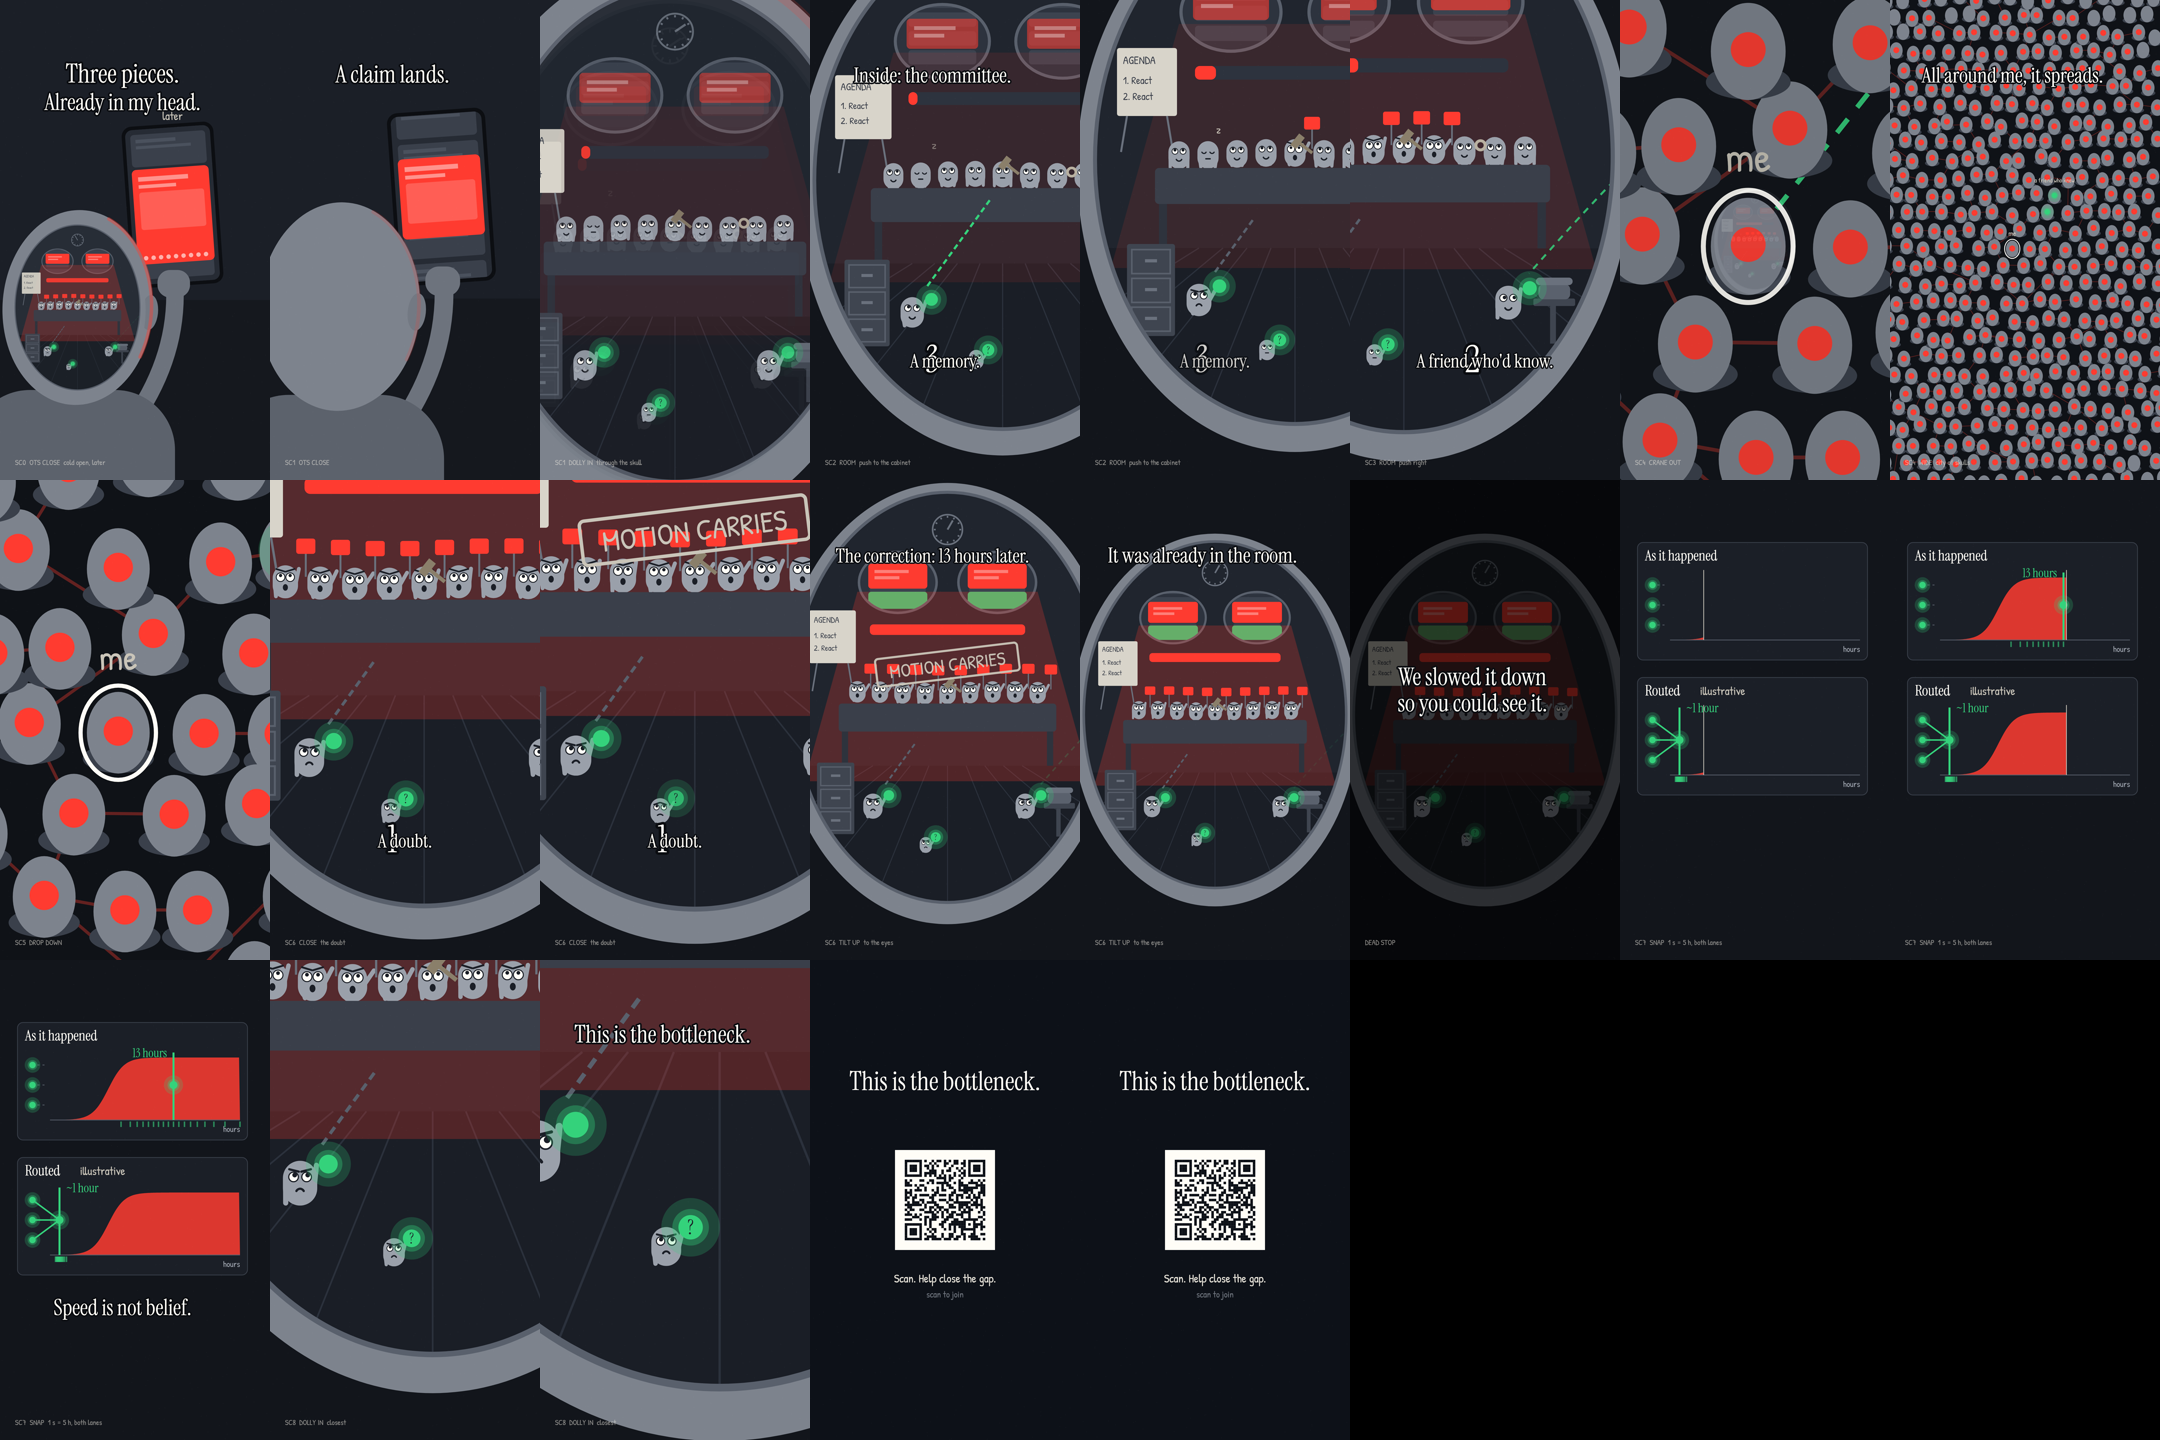
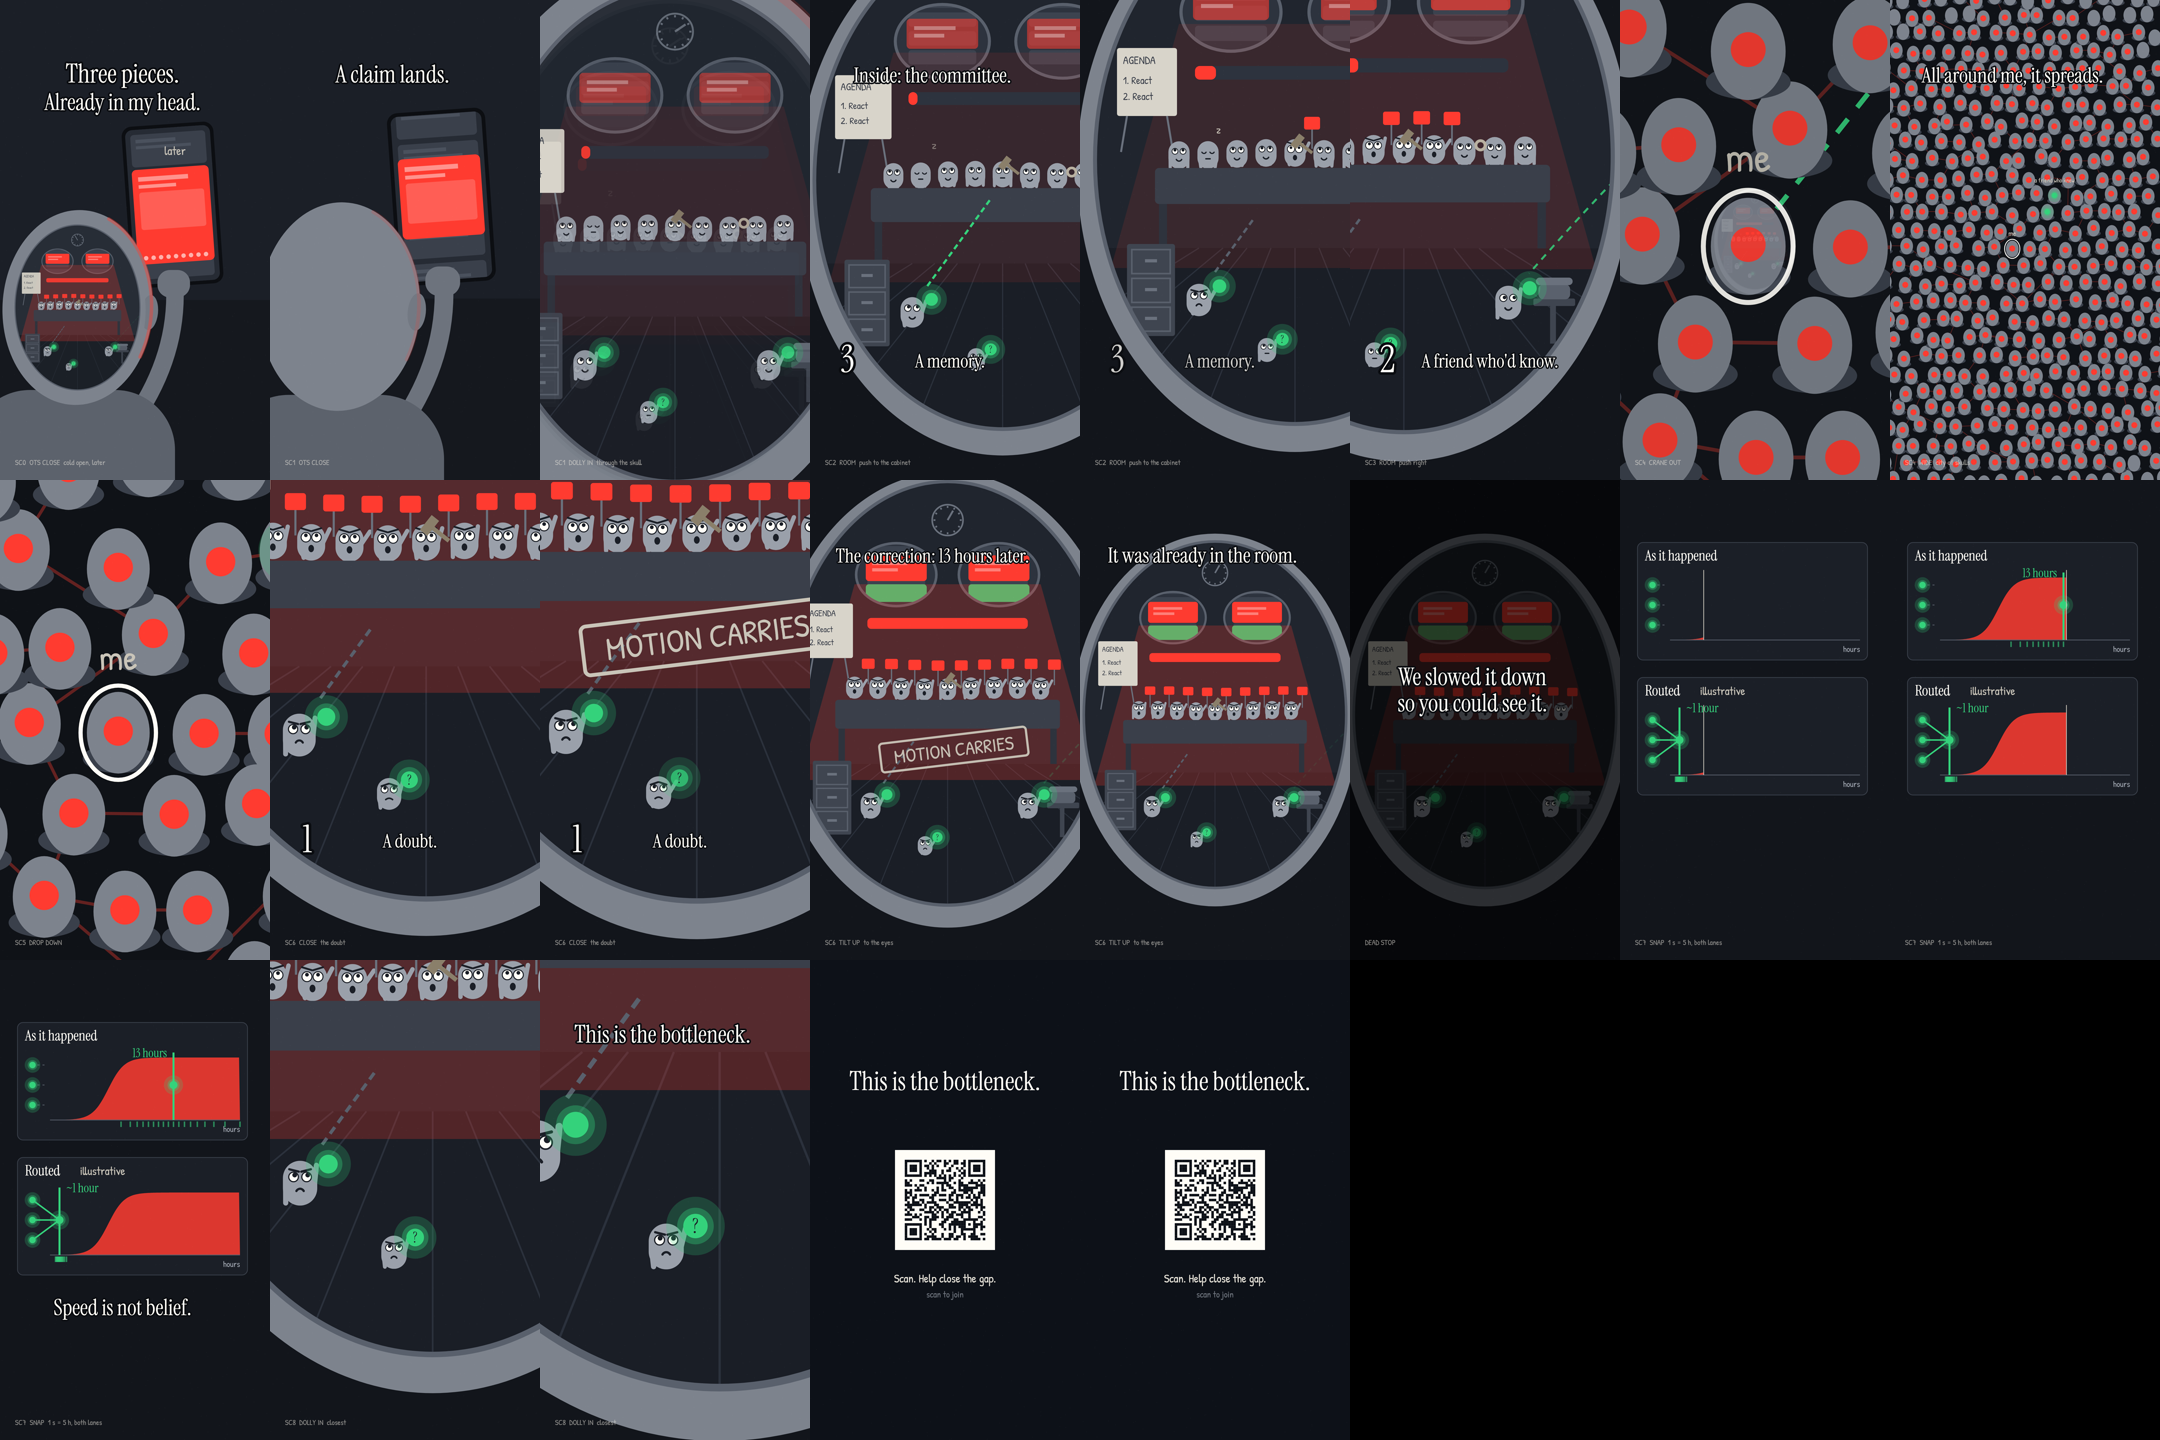
WIP: in-progress animatics
Claude-Session: https://claude.ai/code/session_01X5KAVDy6XpN4shueAifJh7

diff --git a/orchestration-videos/scenes/wall-of-ice.js b/orchestration-videos/scenes/wall-of-ice.js
@@ -231,9 +231,9 @@ function makeScene(SERIF, HAND) {
   function ruler(ctx, E, paused, a = 1) { if (a <= 0.01) return; ctx.save(); ctx.globalAlpha = a;
     paper(ctx, jag(rect(70, 1336, 910, 1488), 51, 2), 'rgba(18,21,27,0.92)', 1);
     L.label(ctx, 'log time', 90, 1382, 44, { col: '#9aa0aa', align: 'left' });
-    if (paused) L.label(ctx, 'paused', 890, 1382, 44, { col: CREAM, align: 'right' });
+    if (paused === true) L.label(ctx, 'paused', 890, 1382, 44, { col: CREAM, align: 'right' });
     const y = 1408; ctx.strokeStyle = '#6b7380'; ctx.lineWidth = 4; ctx.beginPath(); ctx.moveTo(90, y); ctx.lineTo(890, y); ctx.stroke();
-    [['second', 1, 'left'], ['minute', 60], ['hour', 3600], ['day', 86400], ['month', 2.63e6], ['year', 3.156e7]].forEach(([w, e, al]) => { const x = logX(e);
+    [['sec', 1, 'left'], ['minute', 60], ['hour', 3600], ['day', 86400], ['month', 2.63e6], ['year', 3.156e7]].forEach(([w, e, al]) => { const x = logX(e);
       ctx.fillStyle = '#6b7380'; ctx.fillRect(x - 2, y - 12, 4, 24); L.label(ctx, w, al ? x - 4 : x, 1466, 44, { col: '#b9bec6', align: al || 'center' }); });
     if (E > 0) { ctx.strokeStyle = RED; ctx.lineWidth = 12; ctx.beginPath(); ctx.moveTo(90, y); ctx.lineTo(logX(Math.min(E, FALL_S)), y); ctx.stroke(); }
     LINK_H.forEach(hh => { if (E >= hh * 3600) { ctx.fillStyle = GREEN; ctx.beginPath(); ctx.arc(logX(hh * 3600), y, 10, 0, 7); ctx.fill(); } });
@@ -301,7 +301,7 @@ function makeScene(SERIF, HAND) {
     ctx.restore();
     // torch beam on her face
     const lens = handTorch(ctx, 760, 1980, -0.34, true, 1.0);
-    beam(ctx, lens, [560 + Math.sin(lt * 1.3) * 10, 880], 190, L.sm(0.1, 0.5, lt));
+    beam(ctx, lens, [560 + Math.sin(lt * 1.3) * 10, 880], 190, 0.55 * L.sm(0.1, 0.5, lt));
     snow(ctx, t, 0.0);
   }
 
@@ -321,15 +321,15 @@ function makeScene(SERIF, HAND) {
       const lane = (y, title, sub, ai) => {
         L.label(ctx, title, 90, y - 80, 52, { col: CREAM, align: 'left' });
         if (sub) L.label(ctx, sub, 90, y - 28, 46, { col: '#8fe8b4', align: 'left' });
-        const x0 = 190; paper(ctx, jag(rect(80, y - 4, 990, y + 110), 92 + y, 2), '#161a21', 1);
+        const x0 = 250; paper(ctx, jag(rect(80, y - 4, 990, y + 110), 92 + y, 2), '#161a21', 1);
         ctx.strokeStyle = '#6b7380'; ctx.lineWidth = 4; ctx.beginPath(); ctx.moveTo(x0, y + 50); ctx.lineTo(980, y + 50); ctx.stroke();
         const lx = e => logX(e, x0, 700, 8.6);
         [['sec', 1], ['hour', 3600], ['year', 3.156e7]].forEach(([w, e]) => { ctx.fillStyle = '#6b7380'; ctx.fillRect(lx(e) - 2, y + 40, 4, 20); L.label(ctx, w, lx(e), y + 100, 44, { col: '#9aa0aa' }); });
         L.label(ctx, 'before', 88, y + 100, 44, { col: '#9aa0aa', align: 'left' });
         ctx.strokeStyle = RED; ctx.lineWidth = 14; ctx.beginPath(); ctx.moveTo(x0, y + 50); ctx.lineTo(lx(FALL_S), y + 50); ctx.stroke();
         LINK_H.forEach((hh, i) => { if (ai && i === 0) return; ctx.fillStyle = GREEN; ctx.beginPath(); ctx.arc(lx(hh * 3600), y + 50, 11, 0, 7); ctx.fill(); });
-        if (ai) { const p = L.sm(34.9, 35.4, t); ctx.fillStyle = GREEN; glow(ctx, 130, y + 50, 50 * p, rgbaG, 0.6); ctx.beginPath(); ctx.arc(130, y + 50, 16 * p, 0, 7); ctx.fill();
-          ctx.strokeStyle = GREEN; ctx.lineWidth = 6; ctx.beginPath(); ctx.moveTo(146, y + 50); ctx.lineTo(L.lerp(146, x0 - 6, p), y + 50); ctx.stroke(); }
+        if (ai) { const p = L.sm(34.9, 35.4, t); ctx.fillStyle = GREEN; glow(ctx, 160, y + 50, 50 * p, rgbaG, 0.6); ctx.beginPath(); ctx.arc(160, y + 50, 16 * p, 0, 7); ctx.fill();
+          ctx.strokeStyle = GREEN; ctx.lineWidth = 6; ctx.beginPath(); ctx.moveTo(176, y + 50); ctx.lineTo(L.lerp(176, x0 - 6, p), y + 50); ctx.stroke(); }
       };
       lane(640, 'As it happened', null, false);
       lane(1000, 'Warning routed first', 'illustrative', true);
@@ -345,7 +345,7 @@ function makeScene(SERIF, HAND) {
     // SC1 cold open: flash-forward at the doorway
     if (t < 1.4) {
       const flick = 0.55 + 0.35 * L.noise(t * 22, 3);
-      hall(ctx, t, 5.05 + 0.15 * L.ease.out(t / 1.4), flick, { E });
+      hall(ctx, t, 5.45 + 0.12 * L.ease.out(t / 1.4), flick, { E });
       handTorch(ctx, 780, 1960, -0.3, false, 1.0);
       card(ctx, ['The answer', 'was already here.'], 330, 1, 96);
       L.grain(ctx, t, { alpha: 0.05 }); L.slate(ctx, 'SC1  COLD OPEN  CLOSE POV');
@@ -395,7 +395,7 @@ function makeScene(SERIF, HAND) {
       const ring = L.sm(LINK_T[4], LINK_T[4] + 0.6, t);
       map(ctx, t, cam, E, { clockLive: true, labels: win(t, 18.4, 26.2, 0.4), ringGlow: ring });
       snow(ctx, t, 0.2);
-      ruler(ctx, E, t >= TEND, L.sm(17.0, 17.5, t) * (1 - L.sm(28.2, 28.6, t)));
+      ruler(ctx, E, false, L.sm(17.0, 17.5, t) * (1 - L.sm(28.2, 28.6, t)));
       card(ctx, ['The light came back', 'in hours.'], 300, win(t, LINK_T[0] - 0.2, 22.3), 88);
       card(ctx, ['The lasting fix', 'took 7 years.'], 300, win(t, 22.7, 26.1), 96);
       card(ctx, ['We slowed it down', 'so you could see it.'], 300, win(t, 26.1, 28.6), 92);
